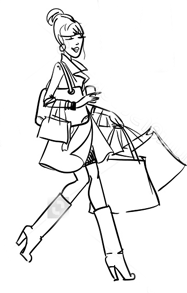
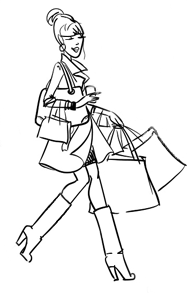
очистил вотермарки картинок «услуги»

Changed region(s): [[0.2406, 0.6451, 0.3743, 0.7679], [0.7754, 0.43, 0.9626, 0.5529], [0.3476, 0.1229, 0.3743, 0.1536]]

diff --git a/resources/views/my-orders.blade.php b/resources/views/my-orders.blade.php
@@ -66,46 +66,7 @@
           </div>
         </div>
 
-        <div class="my-orders__item">
-          <div class="scroll-block scroll-block--orders scroll-block--slim scroll-block__wrapper">
-            <ul class="orders__title">
-              <li class="orders__photo">Фото</li>
-              <li class="orders__service orders__service--big">Услуга</li>
-              <li class="orders__date-name orders__date-name--big">Дата</li>
-              <li class="orders__price orders__price--big">Цена</li>
-            </ul>
-            <ul class="orders__item">
-              <li class="orders__photo"><img src="img/services/selection-hairstyle.png" alt="" width="70%"/></li>
-              <li class="orders__service orders__service--big"><span>Подбор прически</span><br/><span>Стилист первой категории</span><br/><a
-                  class="common-link" href="#">Стилевое решение</a></li>
-              <li class="orders__date-name orders__date-name--big">18.07.2016</li>
-              <li class="orders__price orders__price--big">
-                <input class="input--number input-price" type="number" disabled="disabled" value="5000"/><span>р</span>
-              </li>
-            </ul>
-            <ul class="orders__item">
-              <li class="orders__photo"><img
-                  src="img/services/select-makeup.png" alt="" width="70%"/></li>
-              <li class="orders__service orders__service--big">
-                <span>Подбор макияжа</span><br/><span>VIP стилист</span><br/><a class="common-link" href="#">Стилевое
-                  решение</a></li>
-              <li class="orders__date-name orders__date-name--big">15.06.2018</li>
-              <li class="orders__price orders__price--big">
-                <input class="input--number input-price" type="number" disabled="disabled" value="3500"/><span>р</span>
-              </li>
-            </ul>
-            <ul class="orders__item">
-              <li class="orders__photo"><img src="img/services/make-over.png" alt="" width="70%"/></li>
-              <li class="orders__service orders__service--big">
-                <span>Пакет или подарочный сертификат make over</span><br/><a class="common-link" href="#">Стилевое
-                  решение</a></li>
-              <li class="orders__date-name orders__date-name--big">25.02.2018</li>
-              <li class="orders__price orders__price--big">
-                <input class="input--number input-price" type="number" disabled="disabled" value="2500"/><span>р</span>
-              </li>
-            </ul>
-          </div>
-        </div>
+        
       </div>
     </div>
   </section>

diff --git a/resources/views/stylist/lk-stylist.blade.php b/resources/views/stylist/lk-stylist.blade.php
@@ -147,13 +147,10 @@
             <h3 class="title-second">Список заказов</h3>
             <ul class="orders-list__names-list">
               <li class="orders-list__names-item">
-                <a class="link-change-content link-change-content--active" href="#">Все заказы</a>
+                <a class="link-change-content link-change-content--active" href="#">Новые заказы</a>
               </li>
               <li class="orders-list__names-item">
-                <a class="link-change-content" href="#">Одобренные для вас</a>
-              </li>
-              <li class="orders-list__names-item">
-                <a class="link-change-content" href="#">Вас выбрал клиент</a>
+                <a class="link-change-content" href="#">Подтвержденные заказы</a>
               </li>
               <li class="orders-list__names-item">
                 <a class="link-change-content" href="#">Выполненные заказы</a>

diff --git a/resources/views/blocks/sidebar.blade.php b/resources/views/blocks/sidebar.blade.php
@@ -9,7 +9,7 @@
         <ul class="sidebar__menu-list">
           <li class="sidebar__menu-item"><a class="sidebar__menu-link" href="/services/all">Наши услуги</a></li>
           <li class="sidebar__menu-item"><a class="sidebar__menu-link" href="/stylists">Наши стилисты</a></li>
-          <li class="sidebar__menu-item"><a class="sidebar__menu-link" href="/answers">Стилисты отвечают</a></li>
+          <li class="sidebar__menu-item"><a class="sidebar__menu-link" href="/answers">Часто задаваемые вопросы</a></li>
           <li class="sidebar__menu-item"><a class="sidebar__menu-link" href="/contacts">Контакты</a></li>
         </ul>
       </nav>

diff --git a/resources/views/stylist-card.blade.php b/resources/views/stylist-card.blade.php
@@ -9,7 +9,6 @@
       <div class="card card__margin card__margin--profile">
         <div class="card__photo-block">
           <img class="card__photo--stylist" src="{{$stylist->user->avatar}}" alt="стилист"/>
-          <button  class="btn btn--action btn__card">Выбрать стилиста</button>
         </div>
         <div class="card__description">
           <div class="card__description__title">Имя:

diff --git a/app/Http/Controllers/WelcomeController.php b/app/Http/Controllers/WelcomeController.php
@@ -86,9 +86,11 @@ class WelcomeController extends Controller
         $Categoryservices = $category->first()->service;
       return view('services', compact('Categoryservices'));
     }
-
+    if (isset($categoryName))
+    {
     $Categoryservices = service::all();
     return view('services', compact('Categoryservices'));
+    }
   }
 
   public function sendmail(Request $request)

diff --git a/resources/views/answers.blade.php b/resources/views/answers.blade.php
@@ -4,7 +4,7 @@
 
 @section ('content')
   <section class="section">
-    <h1 class="section__title">Стилисты отвечают</h1>
+    <h1 class="section__title">Часто задаваемые вопросы</h1>
     <div class="ask-question">
       <div class="container">
         <div class="ask-question__preview ask-question__preview__wrapper">
